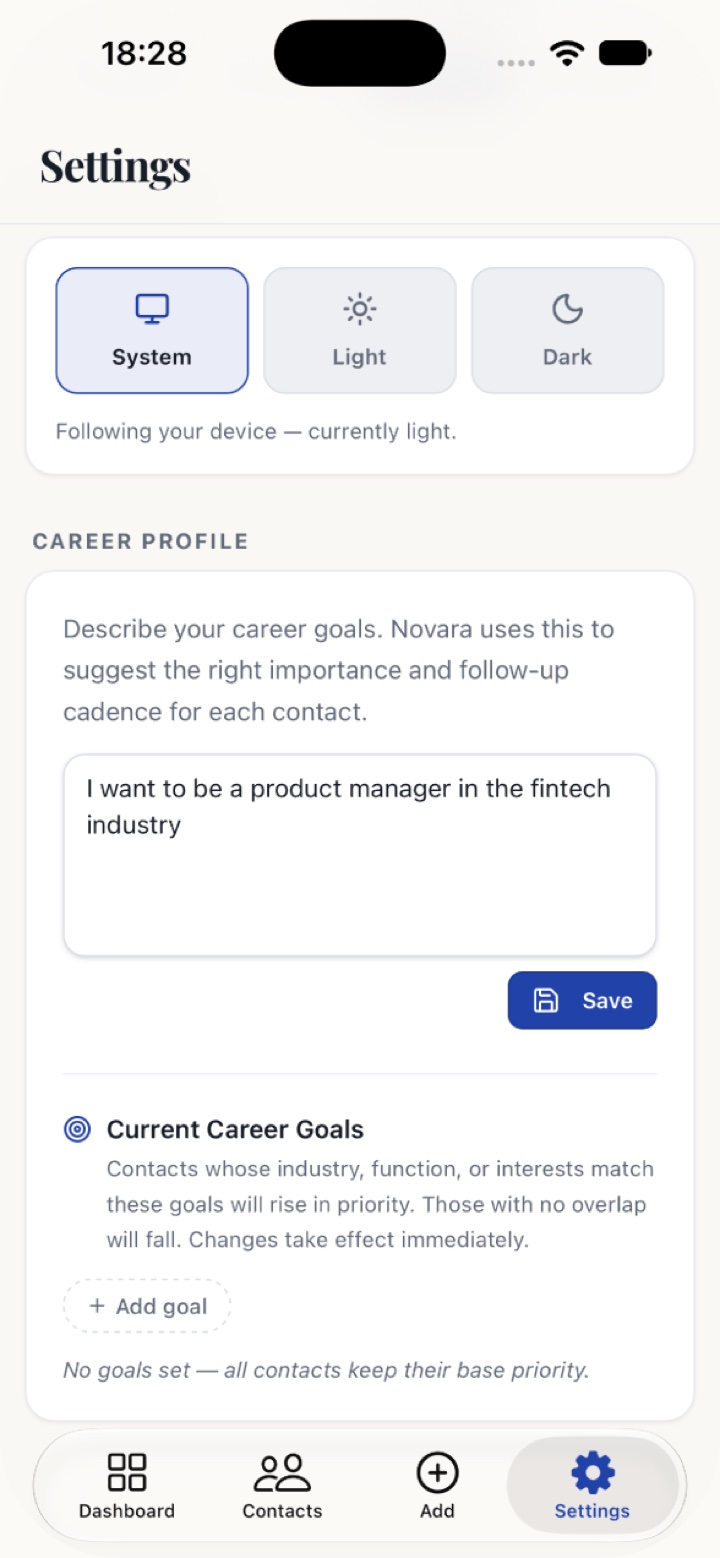
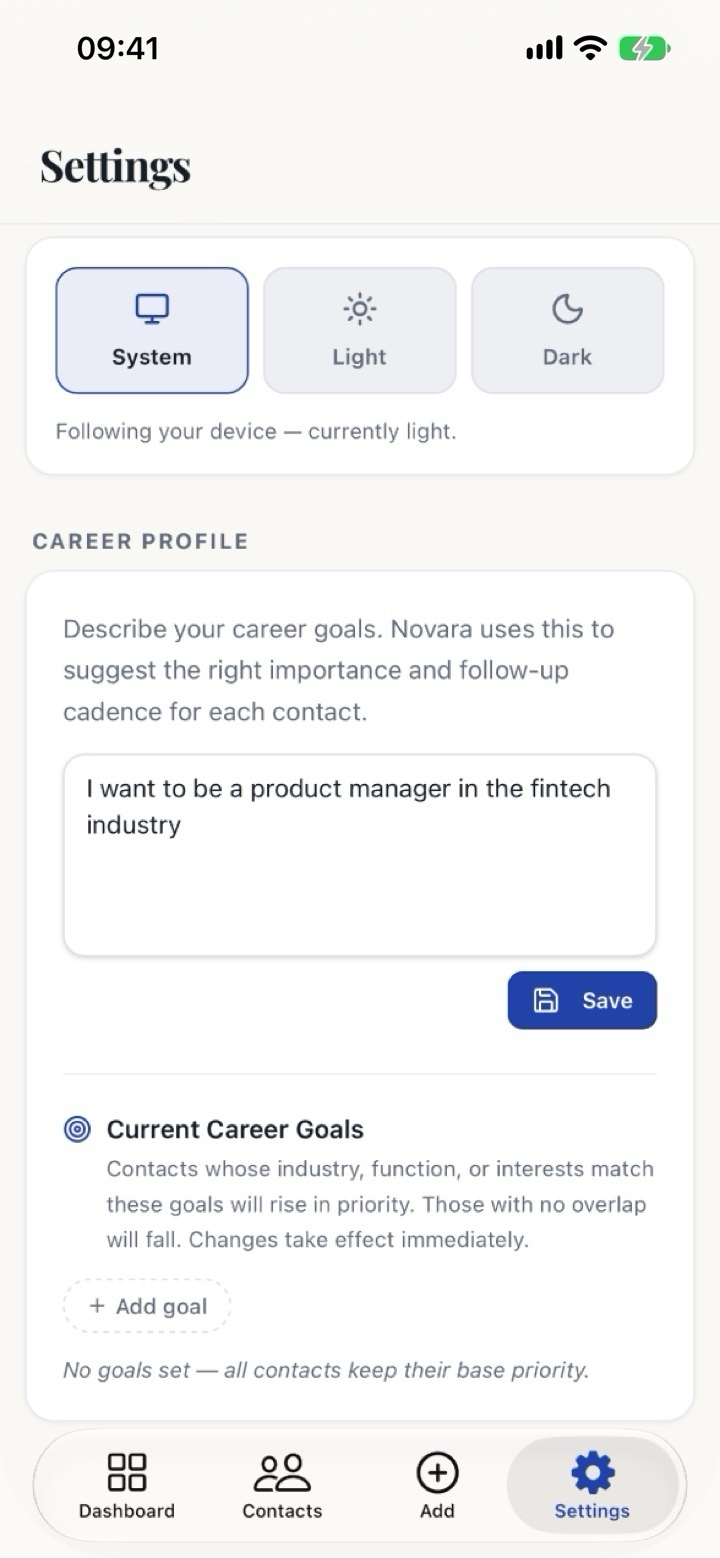
feat(web): career profile screenshot gets the shared 9:41 status bar
Same clock, signal and battery as the other five screens, so it uses
the same frame and Dynamic Island overlay.

diff --git a/artifacts/project-novara/src/pages/InvestorPage.tsx b/artifacts/project-novara/src/pages/InvestorPage.tsx
@@ -64,14 +64,11 @@ function PhoneFrame({
   alt,
   className = "",
   eager = false,
-  island = true,
 }: {
   src: string;
   alt: string;
   className?: string;
   eager?: boolean;
-  /** False for a screenshot that already shows its own Dynamic Island. */
-  island?: boolean;
 }) {
   return (
     <div
@@ -87,9 +84,7 @@ function PhoneFrame({
           className="block h-auto w-full"
         />
         {/* Dynamic Island: sits between the clock and the status icons. */}
-        {island && (
-          <div className="absolute left-1/2 top-[1.6%] h-[3.1%] w-[30%] -translate-x-1/2 rounded-full bg-[#0B0F17]" />
-        )}
+        <div className="absolute left-1/2 top-[1.6%] h-[3.1%] w-[30%] -translate-x-1/2 rounded-full bg-[#0B0F17]" />
       </div>
     </div>
   );
@@ -164,7 +159,7 @@ const PROBLEMS = [
   },
 ];
 
-const SCREENS: { src: string; title: string; caption: string; island?: boolean }[] = [
+const SCREENS = [
   {
     src: shot("dashboard"),
     title: "Network Health",
@@ -179,7 +174,6 @@ const SCREENS: { src: string; title: string; caption: string; island?: boolean }
     src: shot("career-profile"),
     title: "Start with a career profile",
     caption: "Say where you’re headed. Each contact’s base priority comes from how well they match it; goals you add bump matching contacts further.",
-    island: false,
   },
   {
     src: shot("contact"),
@@ -407,7 +401,7 @@ export default function InvestorPage() {
             <ul className="flex snap-x snap-mandatory gap-6 overflow-x-auto px-4 pb-4 sm:px-6 lg:grid lg:grid-cols-6 lg:gap-4 lg:overflow-visible lg:pb-0">
               {SCREENS.map((s) => (
                 <li key={s.title} className="w-[62vw] max-w-[250px] shrink-0 snap-center lg:w-auto lg:max-w-none">
-                  <PhoneFrame src={s.src} alt={s.title} island={s.island} />
+                  <PhoneFrame src={s.src} alt={s.title} />
                   <p className="mt-5 font-semibold leading-snug">{s.title}</p>
                   <p className="mt-1.5 text-sm leading-relaxed text-[#5B6272]">{s.caption}</p>
                 </li>
